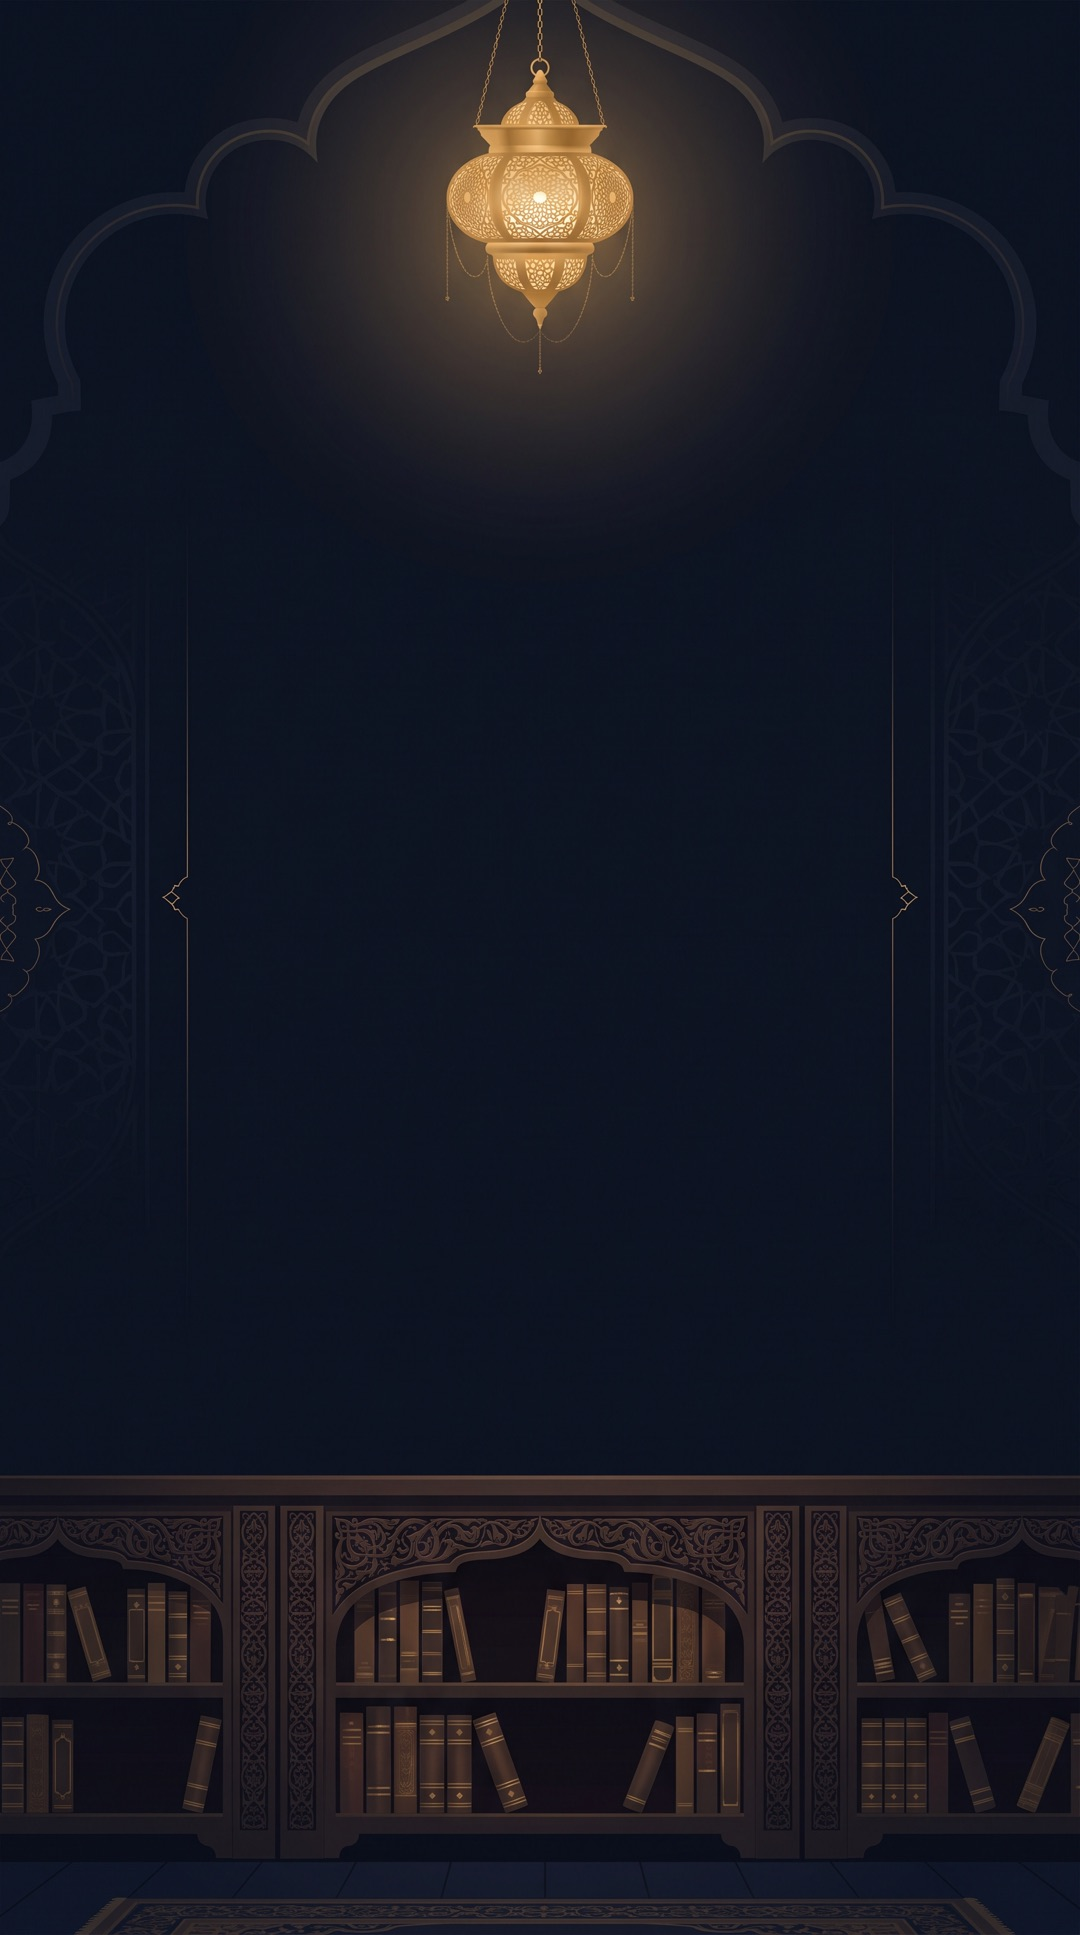
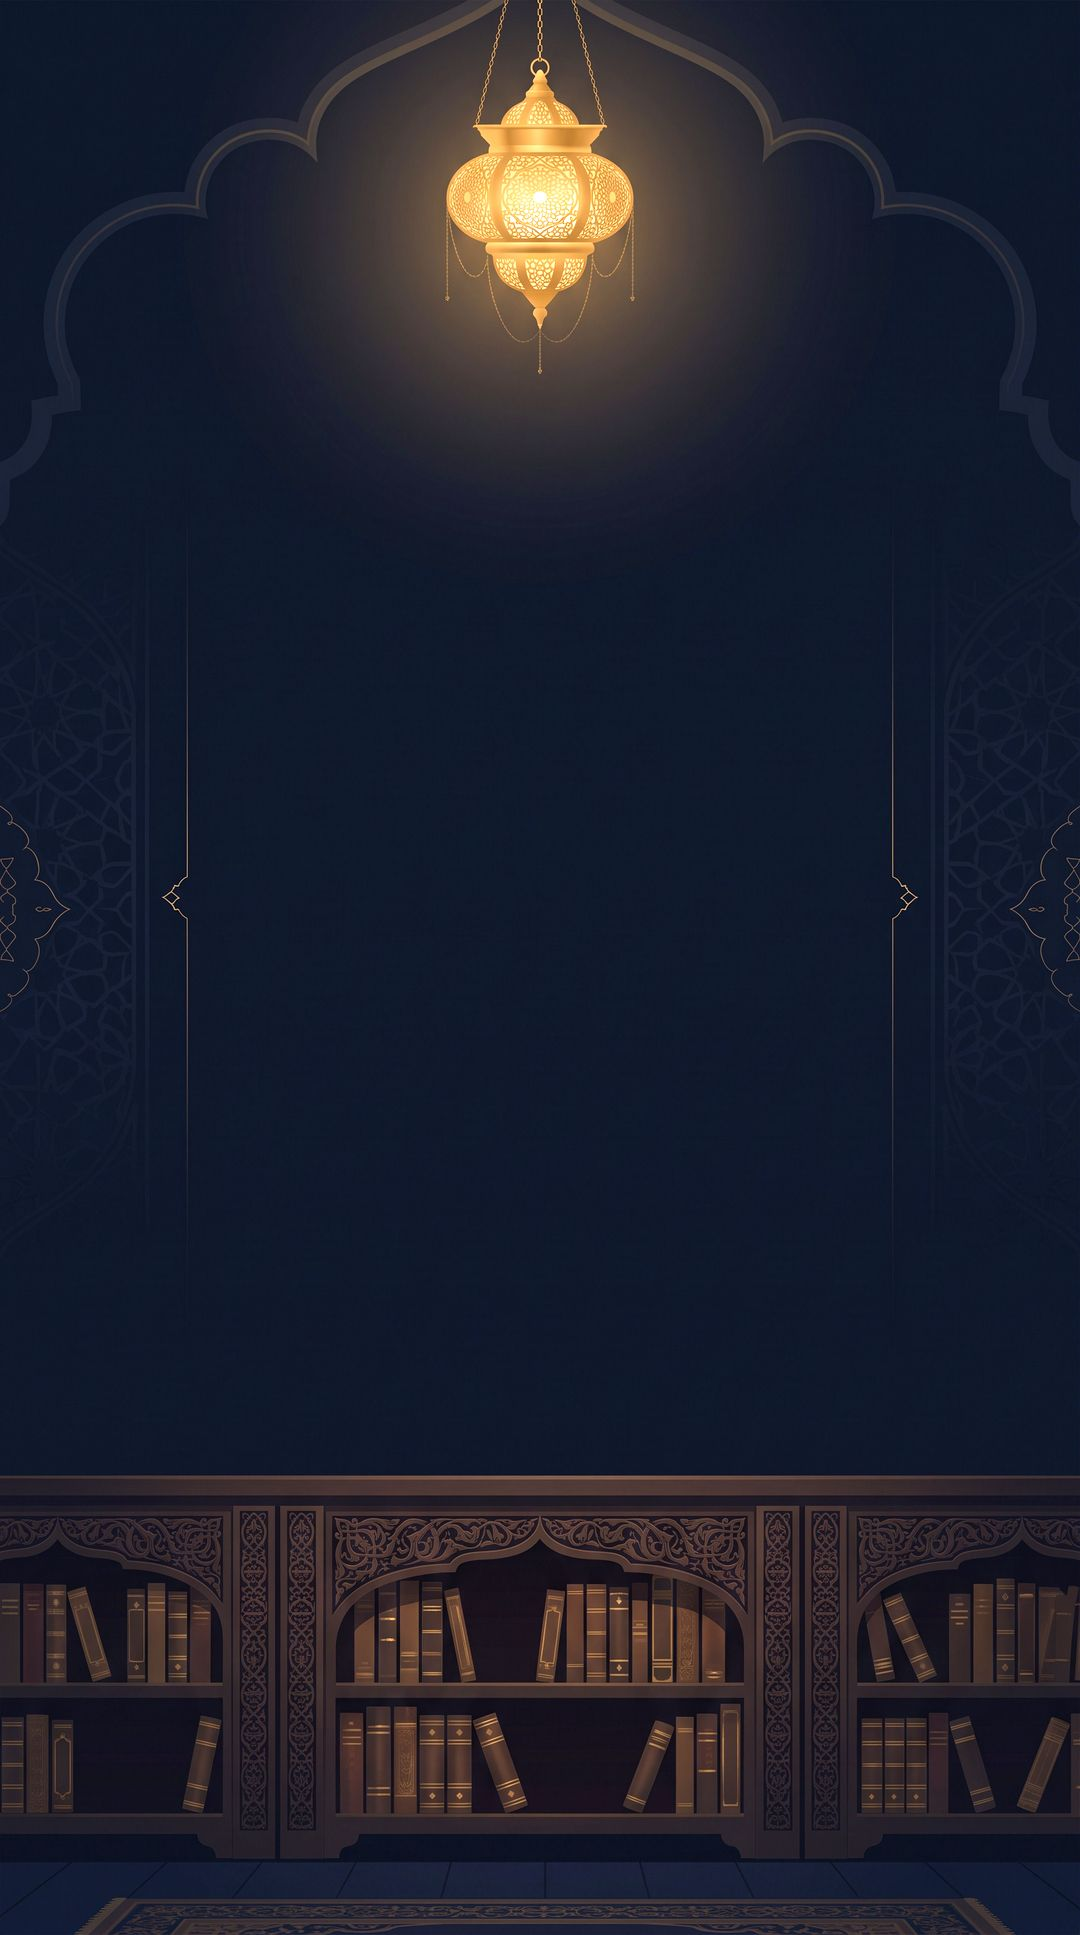
fix(web): no flicker behind the frosted panels
A CSS filter on the fixed art layer, under backdrop-filter panels, made
Chrome repaint and flicker. The dark art's files carry the brightening now
(+30%, colour +10%, also smaller), the filter is gone, and the art is on its
own compositing layer.

diff --git a/web/src/styles/tokens.css b/web/src/styles/tokens.css
@@ -49,7 +49,6 @@
   --color-panel-line: rgba(200, 149, 44, 0.28);
   --blur-glass: blur(14px) saturate(1.2);
   --blur-panel: blur(22px) saturate(1.15);
-  --art-filter: none;
 
   /* queue states (plan 06-11 §9.1): running = saffron, done = blue.
      Waiting is --color-muted, failing is --color-error. */
@@ -113,14 +112,13 @@
   --color-border: #22304a;
   --art-wide: url("/art/library/dark-wide-1.jpg");
   --art-tall: url("/art/library/dark-phone-1.jpg");
-  /* the dark art is dark already: thinner layers and a lighter blur, or it
-     flattens to black behind them */
+  /* the dark art is dark already (its files are brightened): thinner layers
+     and a lighter blur, or it flattens to black behind them */
   --color-glass: rgba(14, 21, 34, 0.4);
   --color-panel: rgba(11, 17, 28, 0.38);
   --color-card: rgba(19, 29, 46, 0.55);
   --blur-glass: blur(10px) saturate(1.3);
   --blur-panel: blur(12px) saturate(1.3);
-  --art-filter: brightness(1.3) saturate(1.1);
   --color-panel-line: rgba(227, 178, 82, 0.2);
   --shadow-panel: 0 12px 40px rgba(0, 0, 0, 0.45);
   /* AA (>= 4.5:1) on --color-bg and on --color-subtle (F23). */

diff --git a/web/src/styles/library.css b/web/src/styles/library.css
@@ -32,8 +32,11 @@ h2,
   inset: 0;
   z-index: -1;
   background: var(--color-bg) var(--art-wide) center / cover no-repeat;
-  filter: var(--art-filter);
   pointer-events: none;
+  /* its own compositing layer: the frosted panels above re-blur it without
+     repainting it (a filter here made Chrome flicker) */
+  transform: translateZ(0);
+  will-change: transform;
 }
 @media (max-width: 768px), (orientation: portrait) and (max-width: 1024px) {
   .mkt-shell::before,
